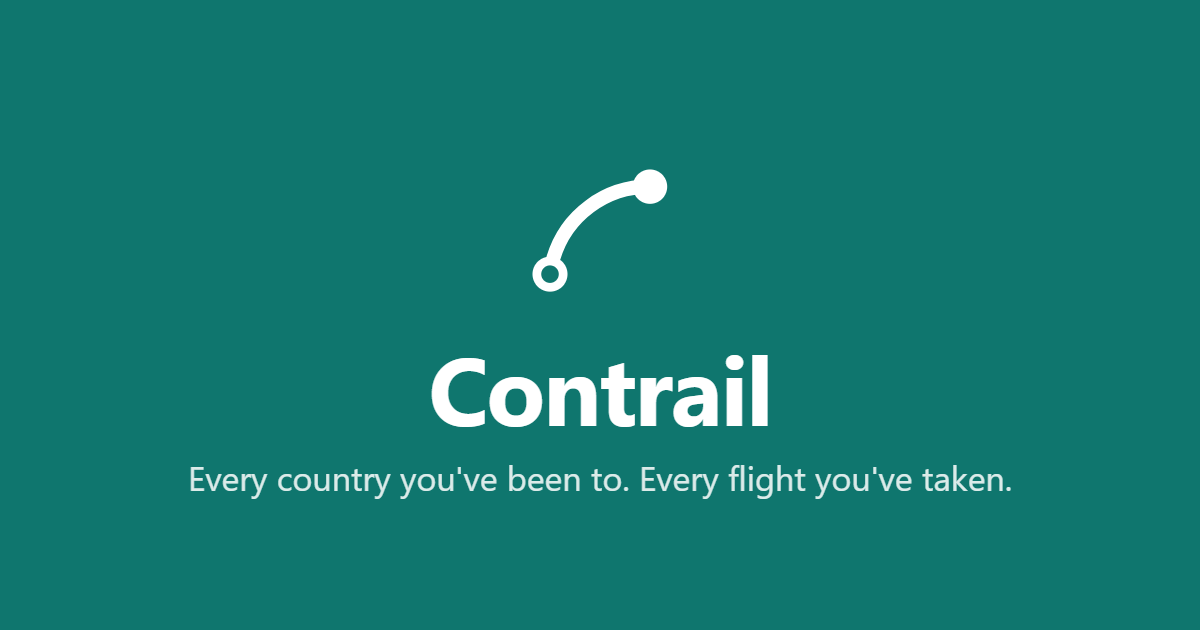
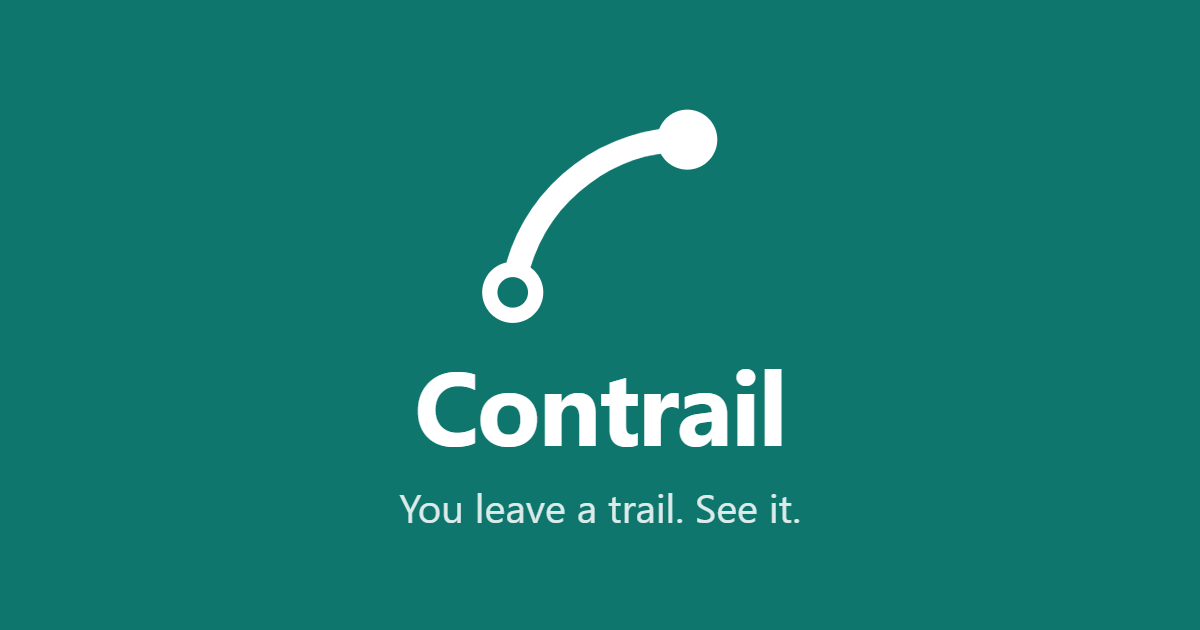
Give Contrail a tagline
"You leave a trail. See it." ties the line back to the name rather than
describing the feature list, and it stays true if the app grows past flights.

Applied to the three places a tagline actually surfaces: the header subtitle,
the tab title, and the link-preview card. The meta description stays
descriptive -- that is the slot search engines read, and it is the wrong place
to be clever.

Changed region(s): [[0.1542, 0.5429, 0.8633, 0.8444], [0.4008, 0.1508, 0.6167, 0.5127]]

diff --git a/frontend/index.html b/frontend/index.html
@@ -4,7 +4,7 @@
     <meta charset="UTF-8" />
     <meta name="viewport" content="width=device-width, initial-scale=1.0, viewport-fit=cover" />
 
-    <title>Contrail — every country you've been to</title>
+    <title>Contrail — You leave a trail. See it.</title>
     <meta
       name="description"
       content="Contrail maps every country you have visited and every flight you have taken, on one interactive world map."
@@ -23,7 +23,7 @@
     <meta property="og:title" content="Contrail" />
     <meta
       property="og:description"
-      content="Map every country you've been to, and every flight you've taken."
+      content="You leave a trail. See it. Map every country you've been to, and every flight you've taken."
     />
     <meta property="og:image" content="/og-image.png" />
     <meta property="og:image:width" content="1200" />

diff --git a/frontend/src/components/Layout/Layout.tsx b/frontend/src/components/Layout/Layout.tsx
@@ -28,7 +28,7 @@ function Layout() {
               </h1>
               {/* Subtitle only where there is room for it */}
               <p className="hidden lg:block text-xs text-ink-subtle leading-tight">
-                Every country you&rsquo;ve been to
+                You leave a trail. See it.
               </p>
             </span>
           </Link>
